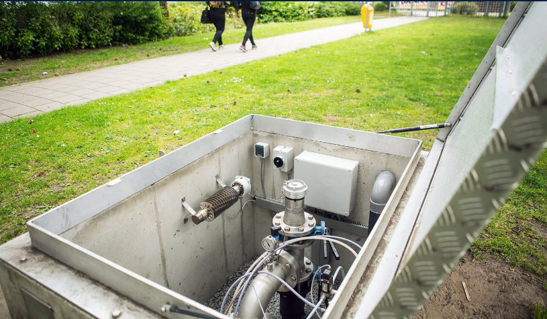
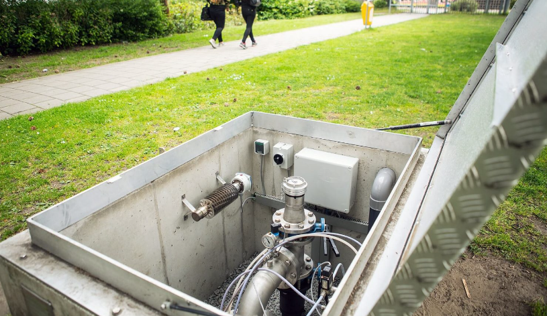
fix issues

diff --git a/app/data/projects.ts b/app/data/projects.ts
@@ -23,7 +23,7 @@ export const cards: project[] = [
     title: "Duurzame bodemenergie campus",
     description:
       "Installatie van een Warmte-Koude Opslag (WKO) systeem om het gebouw in de zomer te koelen en in de winter op een natuurlijke manier te verwarmen",
-    image: "/assets/projects/img2.svg",
+    image: "/assets/projects/img2.png",
     date: "01-11-2025",
   },
   {
